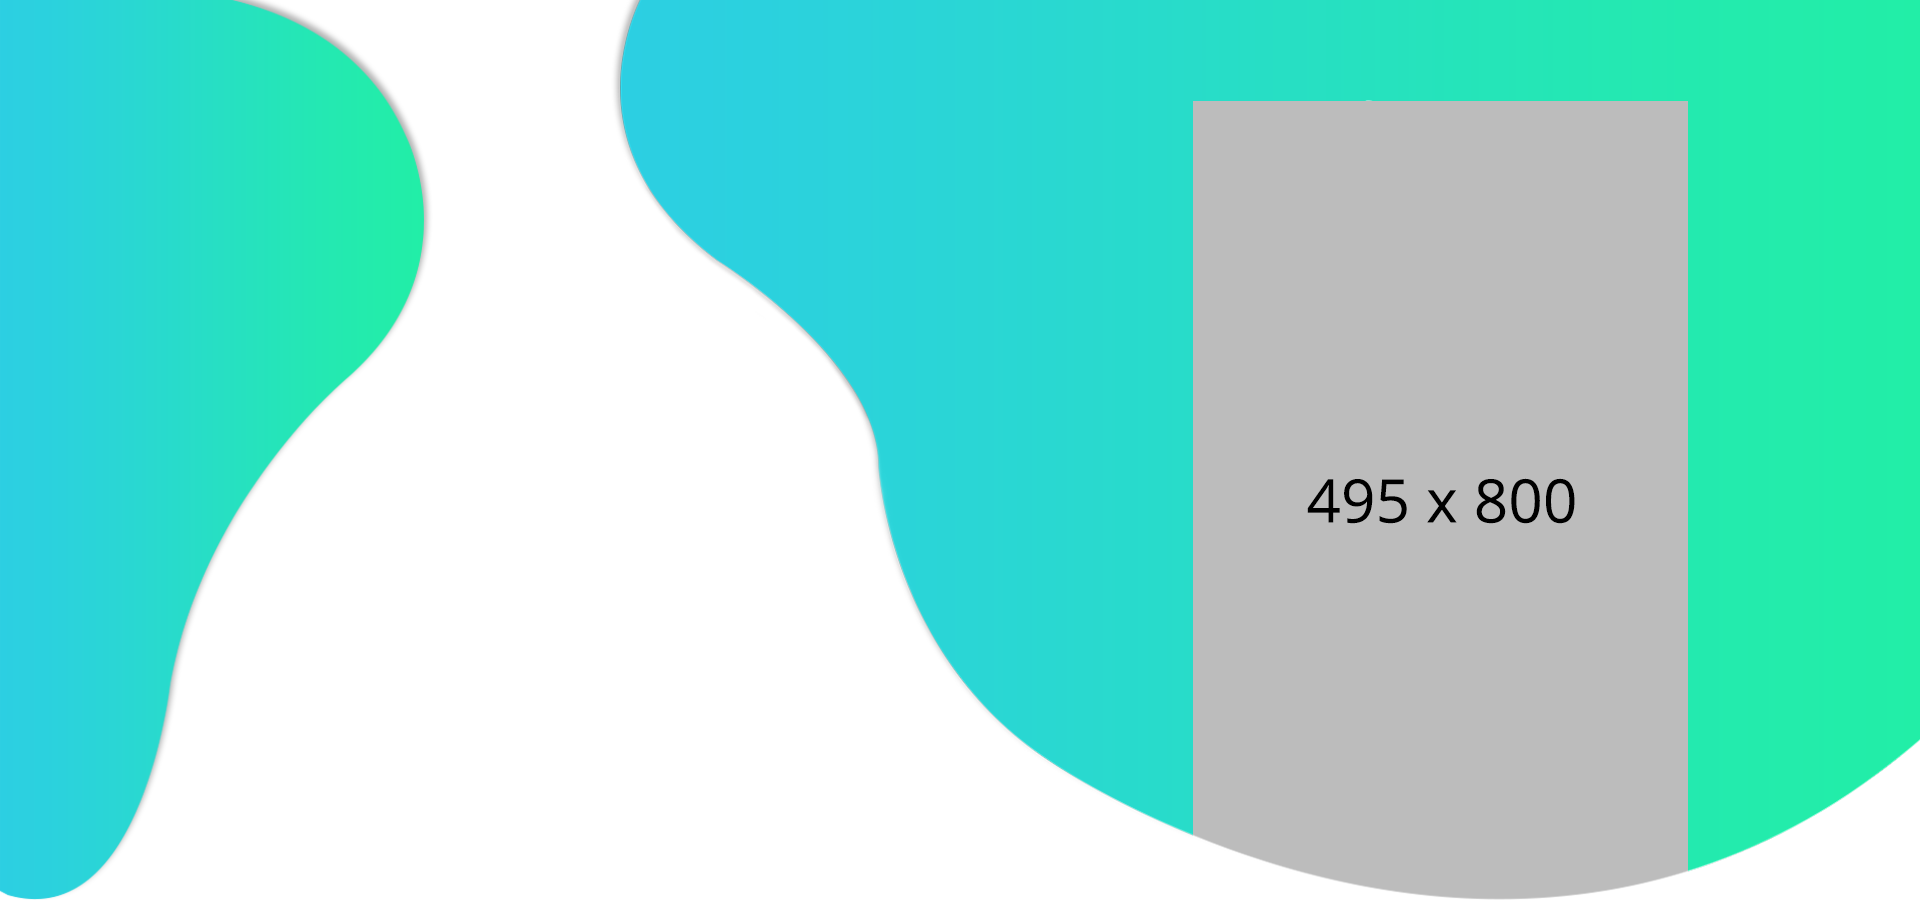
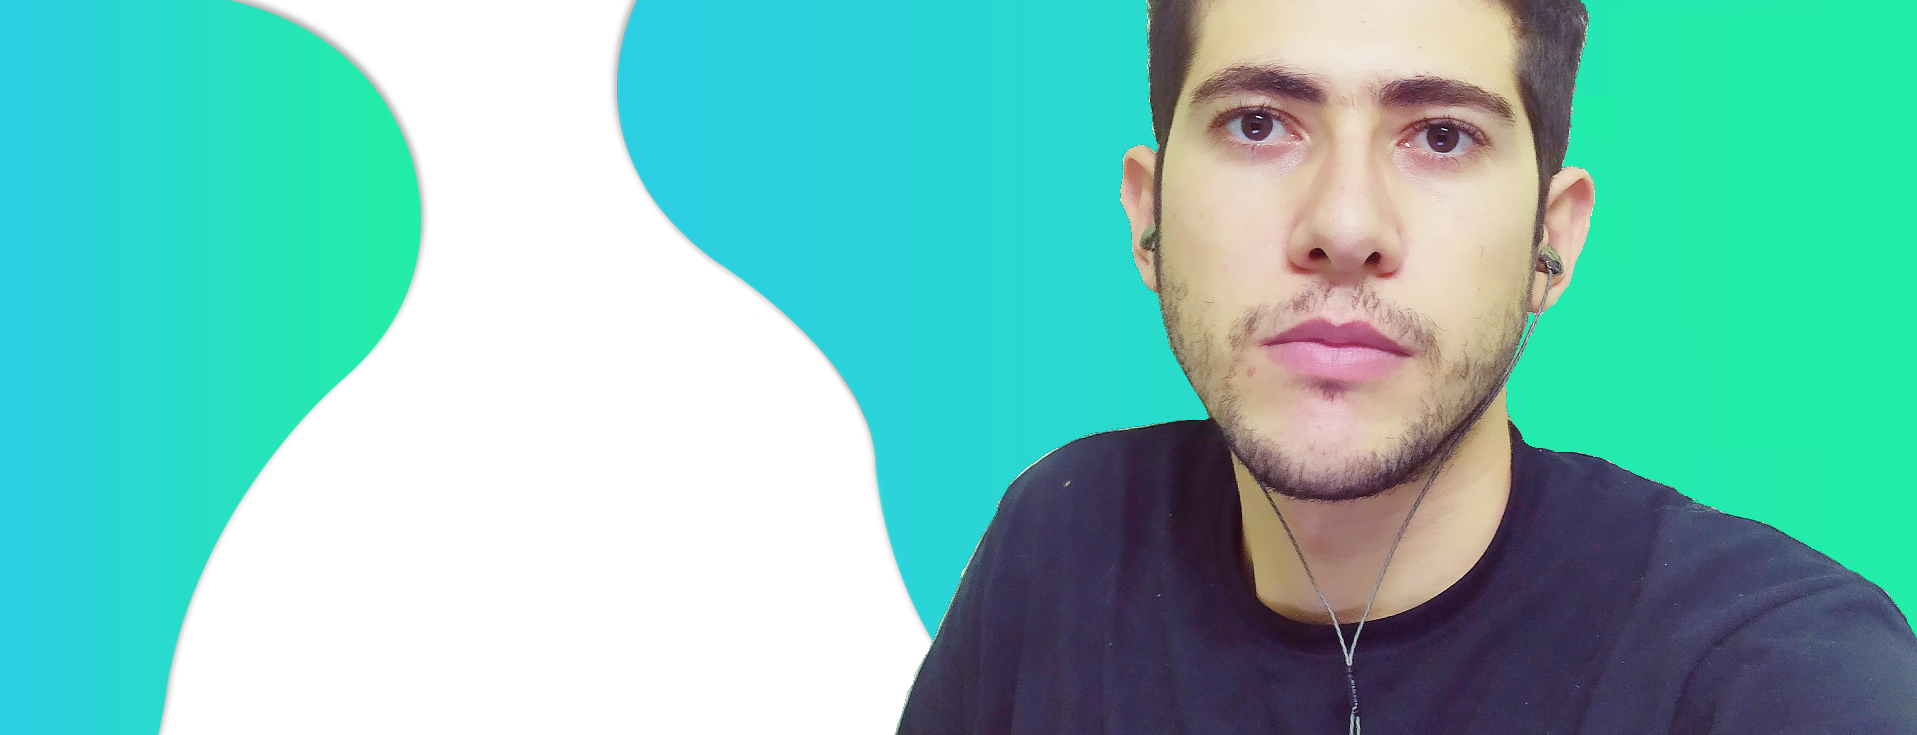
-- add my photo -- add introduction

diff --git a/index.html b/index.html
@@ -84,9 +84,11 @@
 				<div class="col-md-12 col-lg-12">
 					<div class="banner-content color-black">
 						<h4 class="color-black letter-spacing-1">Welcome To My Site</h4>
-						<h1 class="banner-title color-black my-15">Hello! I'm Jackson Smith, <br>An UI/UX Designer.</h1>
-						<p>Condimentum ornare Nam senectus eu vitae lorem volutpat potenti orci lectus odio senectus
-							habitasse eros phasellus. Sociis dapibus ultrices.</p>
+						<h1 class="banner-title color-black my-15">Hello! I'm Mohamed Taweela, <br>A Back-End Web Developer.</h1>
+						<p>Back-end web developer with experience in different technologies
+								from jobs in two different startups
+								including front-end, back-end and
+								dealing with different cloud providers.</p>
 						<a class="btn btn-primary mt-30" href="files/Mohamed_ِAbd_Allah_Taweela-(Sep_2019)-CV.pdf" target="_blank">Check CV</a>
 					</div>
 				</div>
@@ -125,7 +127,7 @@
 							<li><span>Address </span> : Currie Street, Adelaide, South Australia.</li>
 						</ul>
 						<div class="mt-15">
-							<a class="btn btn-primary mr-3" href="#">Download CV</a>
+							<a class="btn btn-primary mr-3" href="files/Mohamed_ِAbd_Allah_Taweela-(Sep_2019)-CV.pdf" download>Download CV</a>
 							<a class="btn btn-primary" href="#">Send Message</a>
 						</div>
 					</div>
